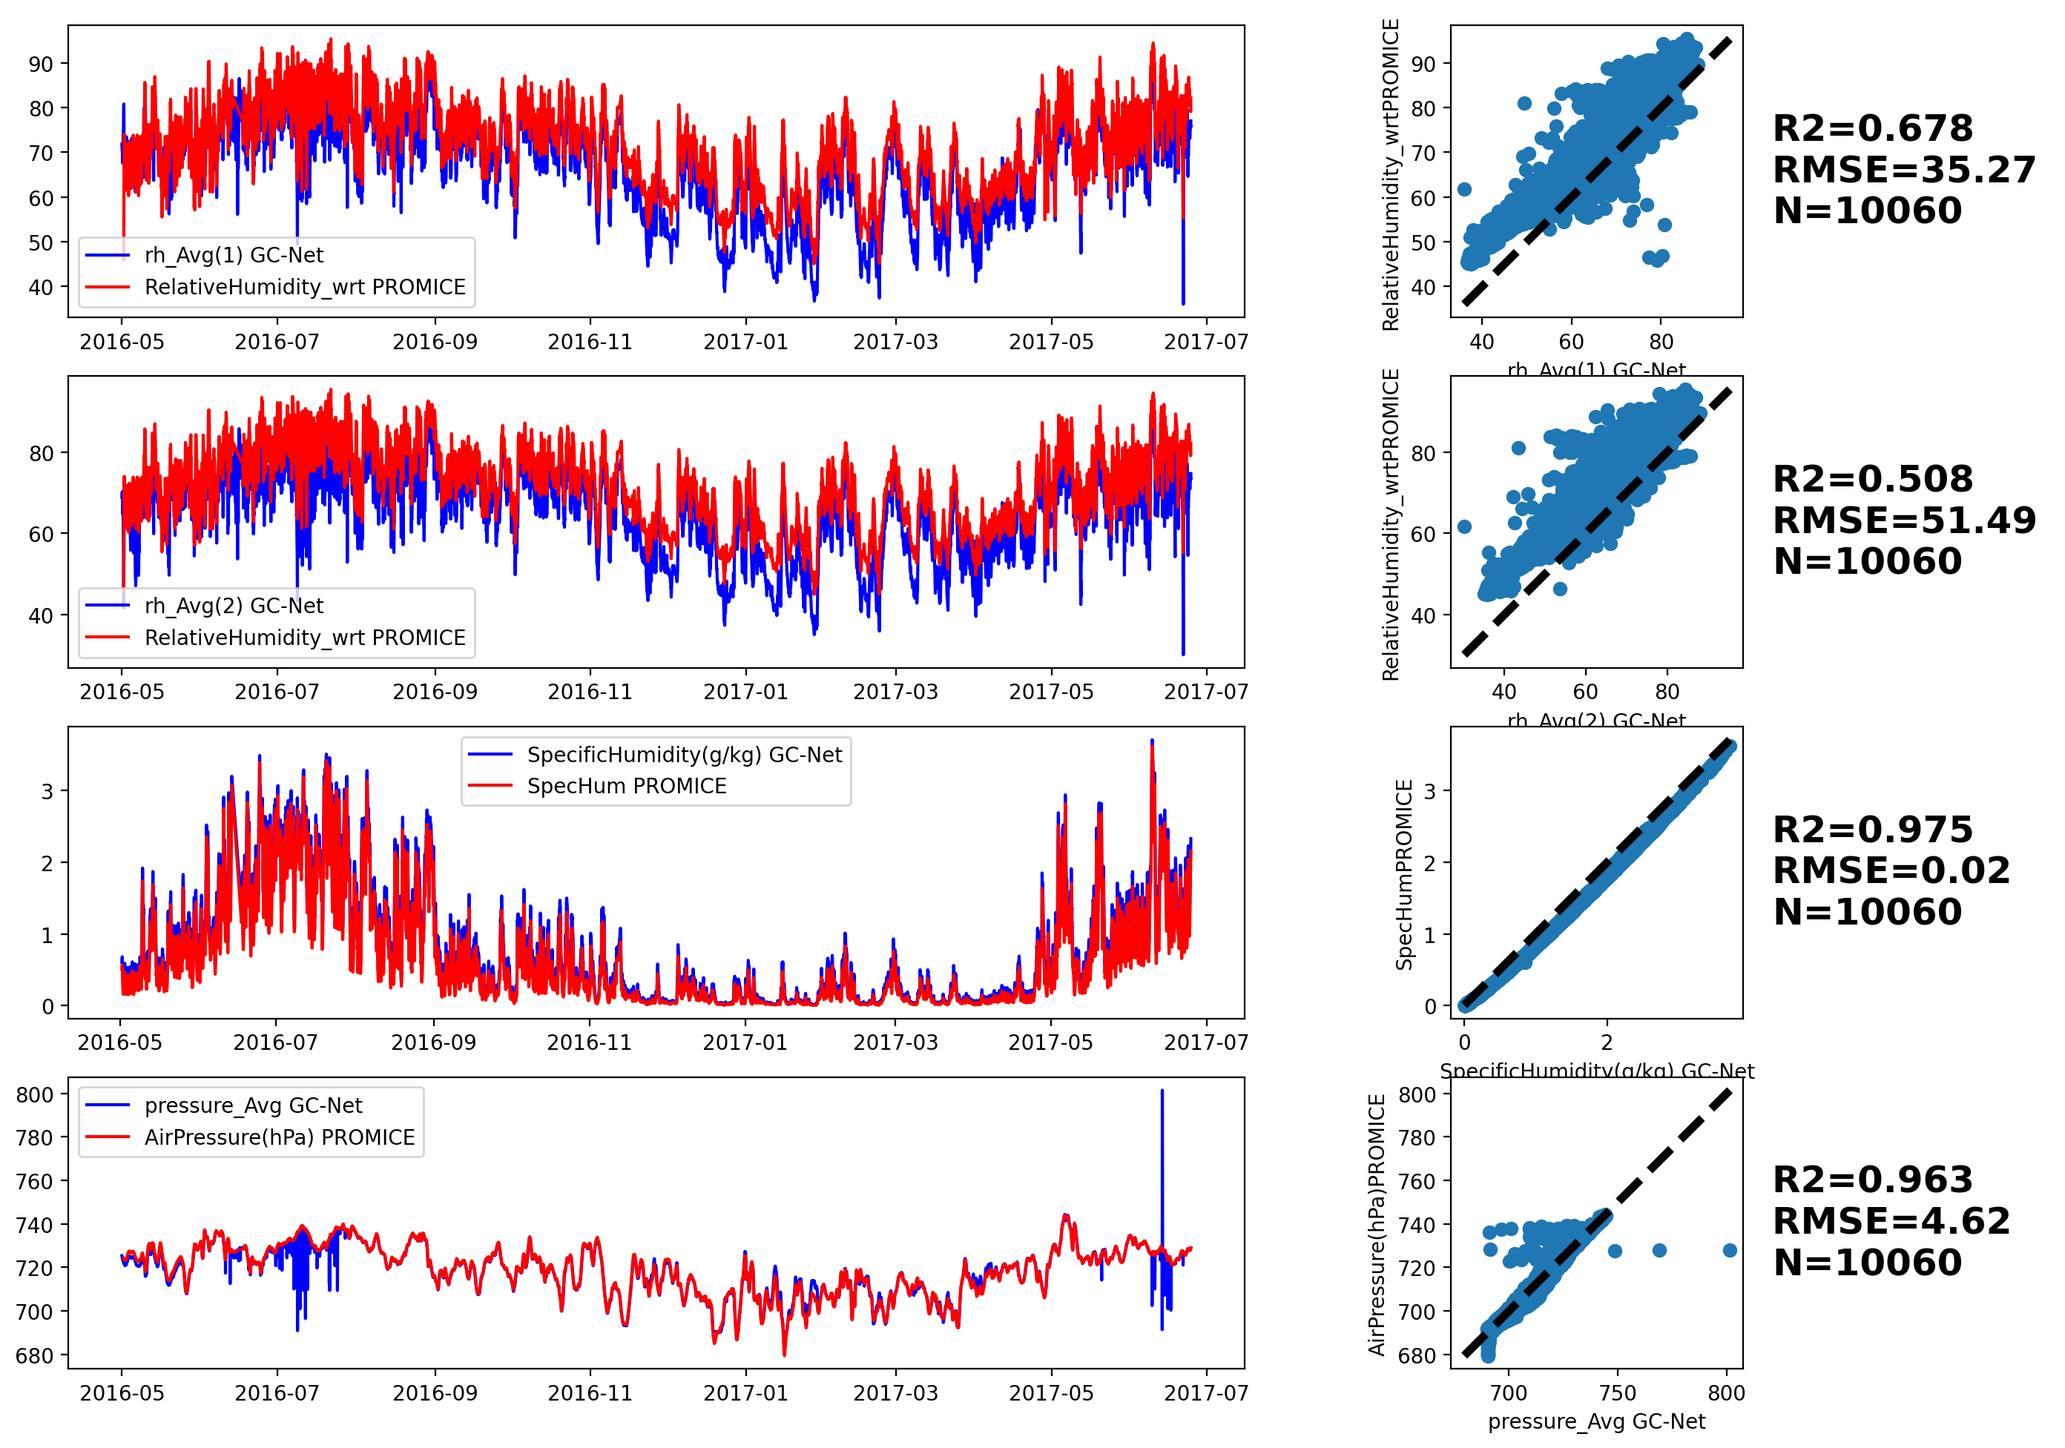
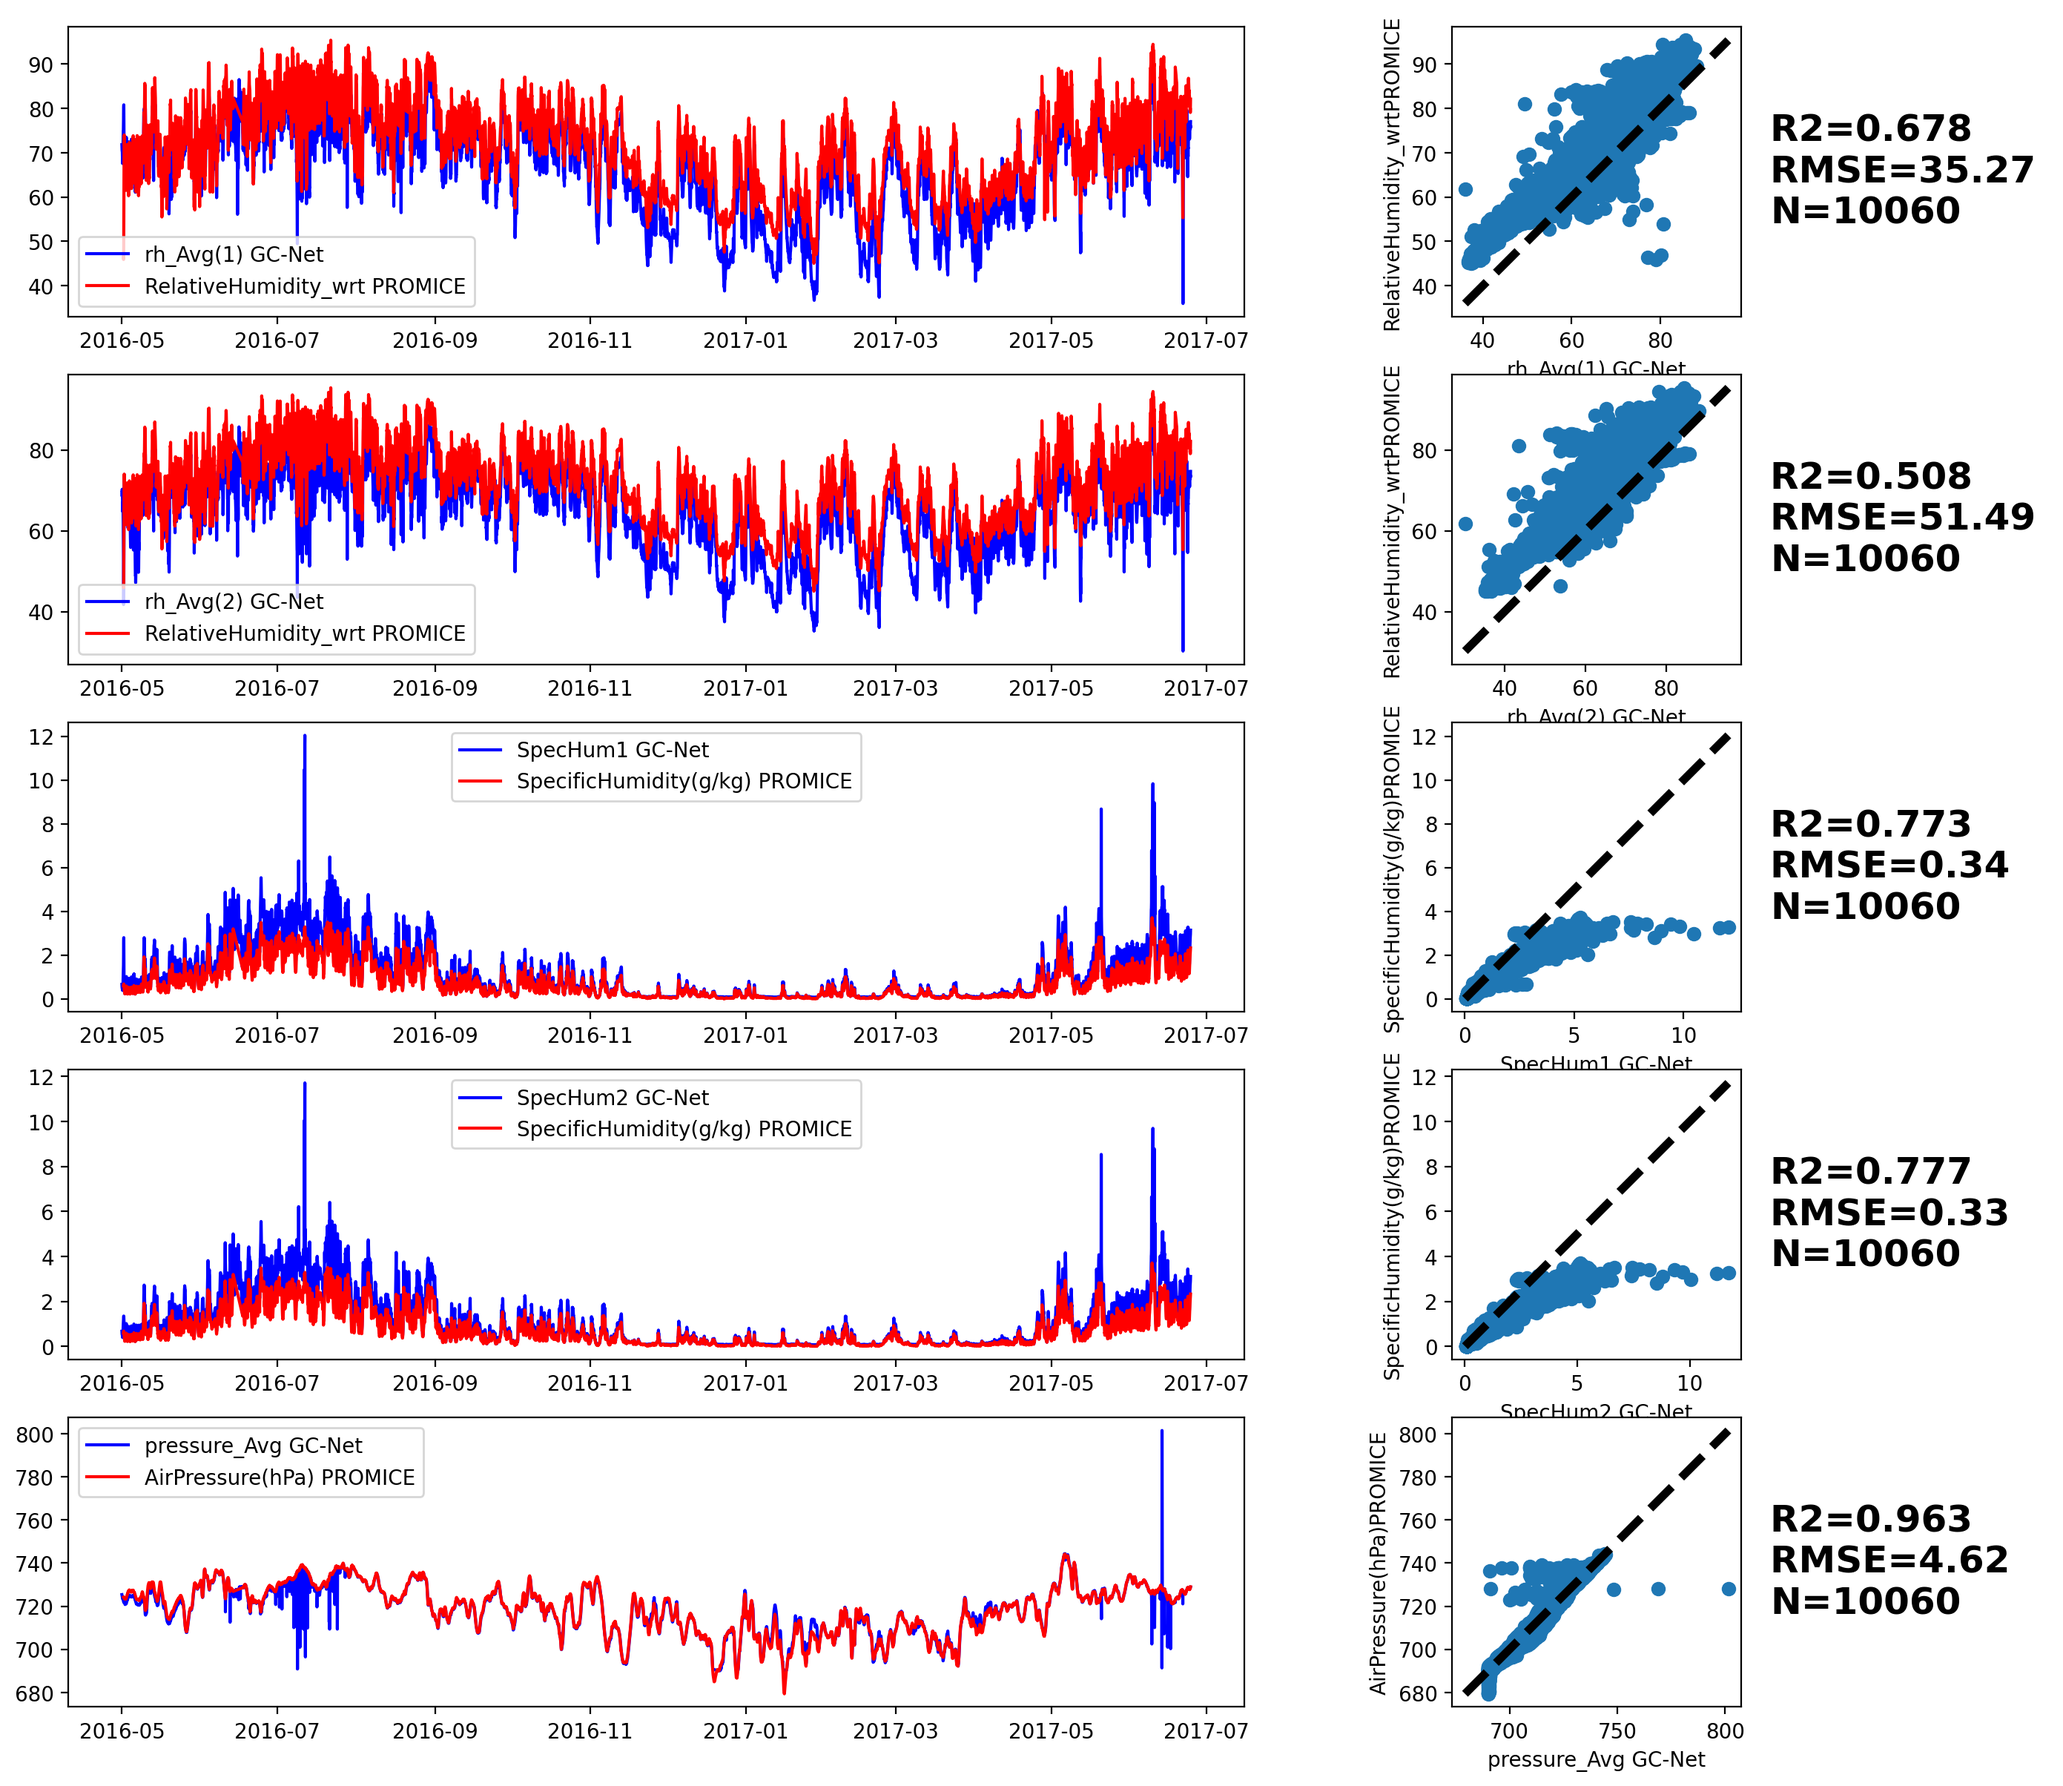
update spechum

Changed region(s): [[0.0, 0.0, 0.6183, 0.9683], [0.6492, 0.0, 0.9892, 0.9995], [0.0, 0.0312, 0.0309, 0.0937]]

diff --git a/GC-Net-evaluation.py b/GC-Net-evaluation.py
@@ -105,9 +105,12 @@ df_all = df_all.set_index('time')
 # df_all['Albedo'] = df_all['ShortwaveRadiationUpWm2'] / df_all['ShortwaveRadiationDownWm2']
 df_all['RelativeHumidity_wrt'] = gnl.RH_ice2water(df_all['RelativeHumidity(%)'] ,
                                                        df_all['AirTemperature(C)'])
-df_all['SpecHum'] = gnl.RH2SpecHum(df_all['RelativeHumidity(%)'] ,
-                                                       df_all['AirTemperature(C)'] ,
-                                                       df_all['AirPressure(hPa)'] )*1000
+df_all['SpecHum1'] = gnl.RH2SpecHum(df_all['rh_Avg(1)'] ,
+                                                       df_all['t_air_Avg(1)'] ,
+                                                       df_all['pressure_Avg'] )*1000
+df_all['SpecHum2'] = gnl.RH2SpecHum(df_all['rh_Avg(2)'] ,
+                                                       df_all['t_air_Avg(2)'] ,
+                                                       df_all['pressure_Avg'] )*1000
 df_all.pressure_Avg = df_all.pressure_Avg+300
 df_all.pressure_Avg.loc[df_all.pressure_Avg<690] = np.nan
 df_all['AirPressure(hPa)'].loc[df_all['AirPressure(hPa)']>750] = np.nan
@@ -125,8 +128,9 @@ varname2 =  ['AirTemperature(C)', 'AirTemperature(C)','AirTemperature(C)','AirTe
 gnl.plot_comp(df_all, df_interpol, varname1, varname2,'PROMICE', station+'_temp')
 gnl.day_night_plot(df_all, df_interpol, varname1, varname2,station+'_temp_violin')
 
-varname1 =  ['rh_Avg(1)', 'rh_Avg(2)','SpecificHumidity(g/kg)', 'pressure_Avg']
-varname2 =  ['RelativeHumidity_wrt','RelativeHumidity_wrt','SpecHum', 'AirPressure(hPa)']
+varname1 =  ['rh_Avg(1)', 'rh_Avg(2)','SpecHum1','SpecHum2','pressure_Avg']
+varname2 =  ['RelativeHumidity_wrt','RelativeHumidity_wrt',
+             'SpecificHumidity(g/kg)','SpecificHumidity(g/kg)','AirPressure(hPa)']
 
 gnl.plot_comp(df_all, df_interpol, varname1, varname2,'PROMICE', station+'_rh_pres')
 gnl.day_night_plot(df_all, df_interpol, varname1, varname2, station+'_rh_pres_violin')

diff --git a/README.md b/README.md
@@ -7,16 +7,6 @@ B.Vandecrux, N. Karlson, J. E. Box
 
  
 
-# Dye-2
-## Shortwave radiation
-![-](Output/dye-2_SWrad.png)
-## Relative Humidity and Air Pressure
-![-](Output/dye-2_rh_pres.png)
-## Air temperature
-![-](Output/dye-2_temp.png)
-## Wind speed and direction
-![-](Output/dye-2_wind.png)
-
 # EastGRIP
 ## Air temperature
 ![-](Output/EGP_temp.png)
@@ -39,9 +29,21 @@ B.Vandecrux, N. Karlson, J. E. Box
 |ME    |day  |        -0.52|        -0.34|       -0.07|        0.42|    -2.84|    -5.96|                  0.15|       -0.74|   -0.25|    0.08|    -15.97|    -17.42|
 |R2    |day  |         0.97|         0.97|        0.96|        0.95|     0.03|    -0.42|                  0.96|        0.77|    0.69|    0.84|      0.17|      0.25|
 |N     |day  |      2217.00|      2217.00|     2217.00|     2217.00|  2217.00|  2217.00|               2217.00|     2217.00| 2217.00| 2217.00|   2217.00|   2217.00|
+
+
 ##Violin plots
 ![-](Output/EGP_temp_violin..png)
 ![-](Output/EGP_rh_pres_violin..png)
 ![-](Output/EGP_wind_violin..png)
 
 
+
+# Dye-2
+## Shortwave radiation
+![-](Output/dye-2_SWrad.png)
+## Relative Humidity and Air Pressure
+![-](Output/dye-2_rh_pres.png)
+## Air temperature
+![-](Output/dye-2_temp.png)
+## Wind speed and direction
+![-](Output/dye-2_wind.png)
